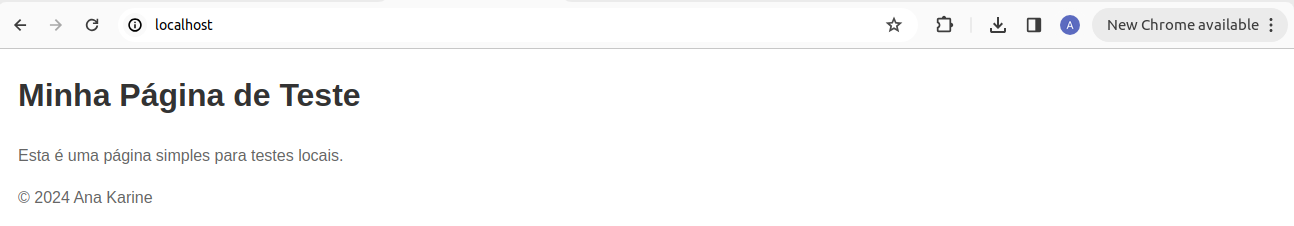
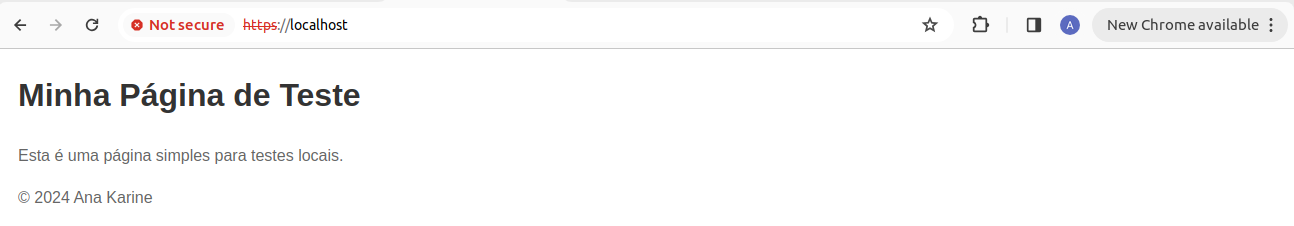
correção imagens

Changed region(s): [[0.0927, 0.0619, 0.2782, 0.1549], [0.6801, 0.0619, 0.7728, 0.1549]]

diff --git a/README.md b/README.md
@@ -324,7 +324,7 @@ sudo nginx -s reload
 http://localhost/
 ```
 
-<img src="/images/seguranca.png"> <br>
+<img src="/images/sem_seguranca.png"> <br>
 
 ```
 https://localhost/
@@ -336,7 +336,7 @@ https://localhost/
 http://localhost/servico1/
 ```
 
-<img src="/images/seguranca1.png"> <br>
+<img src="/images/sem_seguranca1.png"> <br>
 
 ```
 https://localhost/servico1/
@@ -348,7 +348,7 @@ https://localhost/servico1/
 http://localhost/servico2/
 ```
 
-<img src="/images/seguranca2.png"> <br>
+<img src="/images/sem_seguranca2.png"> <br>
 
 ```
 https://localhost/servico2/
